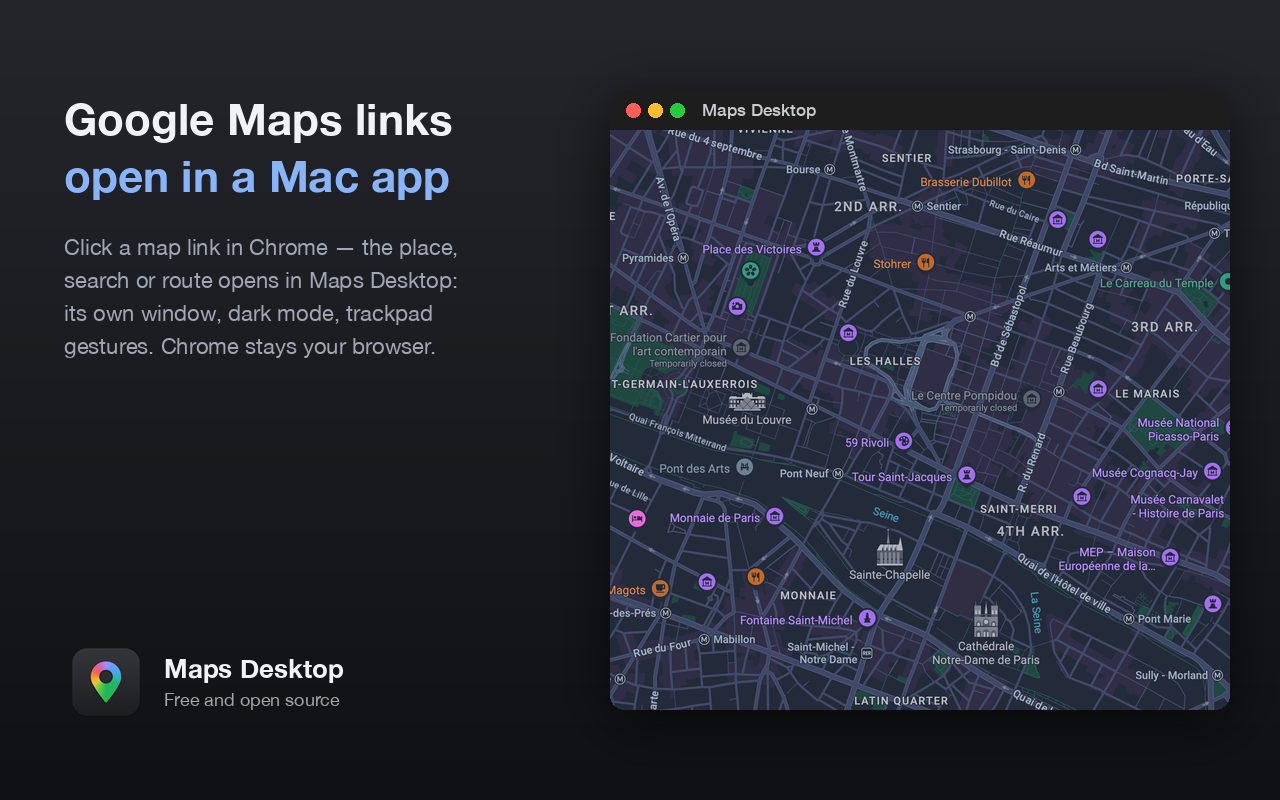
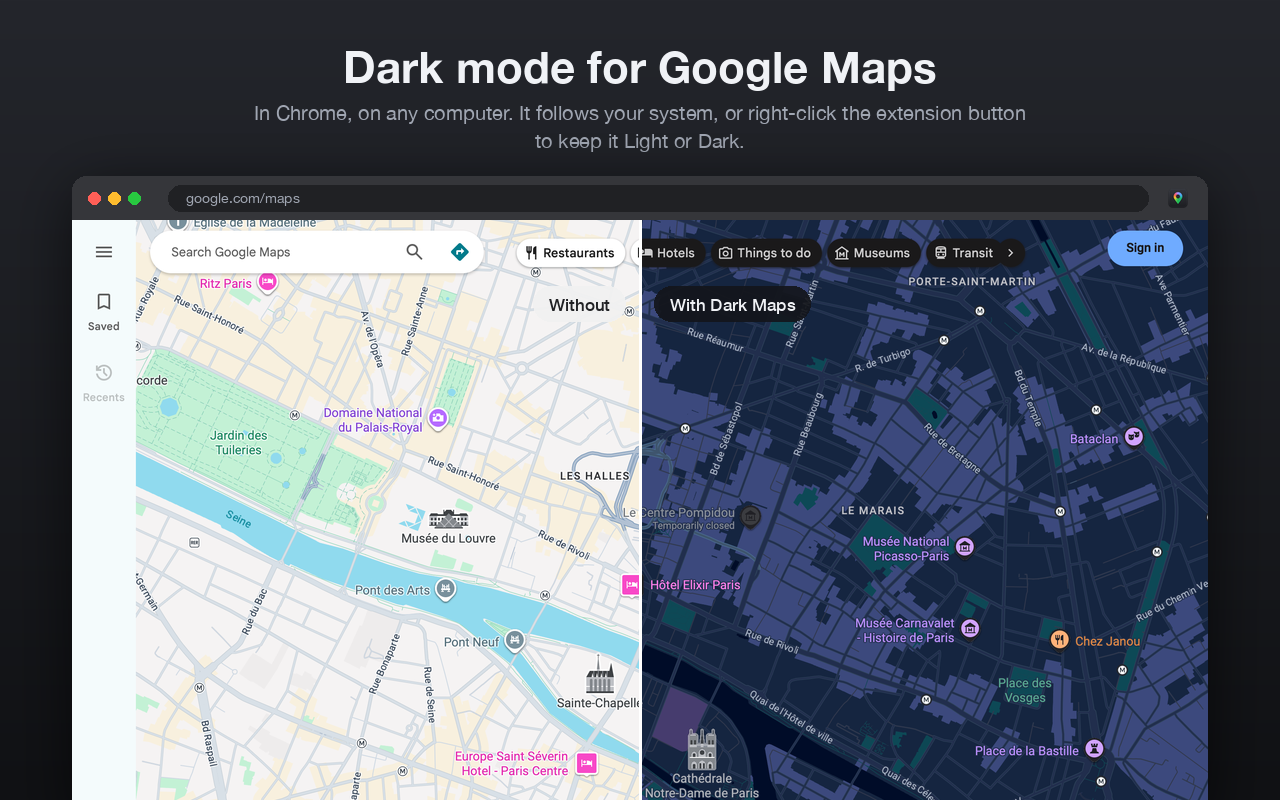
Store images: dark theme, trackpad gestures, links
Three screenshots to match the listing: Google Maps with and without the theme,
the Mac app with its gestures, and a link opening in the app. The generator now
takes a dark and a light snapshot of the same place.

diff --git a/tools/store_graphics.py b/tools/store_graphics.py
@@ -1,11 +1,12 @@
 #!/usr/bin/env python3
-"""Графика для Chrome Web Store: два скриншота 1280×800 и малая промо-плитка 440×280.
+"""Графика для Chrome Web Store: три скриншота 1280×800 и малая промо-плитка 440×280.
 
     ./build.sh            # рисует build/AppIcon.iconset
-    python3 tools/store_graphics.py <снимок карты из приложения.png>
+    python3 tools/store_graphics.py <темный снимок.png> <светлый снимок.png>
 
-Снимок делается tools/shot.sh; из него берется только область карты справа от боковой
-панели, без аватара и личных мест.
+Снимки делает tools/shot.sh из одного и того же места карты, без входа в аккаунт:
+window.__gmDark(true), затем window.__gmDark(false) и событие resize, чтобы карта перерисовалась.
+Логотип и строка внизу карты в кадр не попадают.
 """
 import sys
 from PIL import Image, ImageDraw, ImageFilter, ImageFont
@@ -74,24 +75,118 @@ def text_block(d, xy, lines, gap=10):
     return y
 
 
+def centered(d, text, y, f, fill, w=1280):
+    d.text(((w - f.getlength(text)) / 2, y), text, font=f, fill=fill)
+
+
+def pill(canvas, text, right=None, left=None, y=0, dark=True):
+    f = font(17, 650)
+    w = int(f.getlength(text)) + 32
+    x = right - w if right is not None else left
+    layer = Image.new("RGBA", (w, 36), (20, 22, 28, 235) if dark else (255, 255, 255, 240))
+    ImageDraw.Draw(layer).text((16, 8), text, font=f, fill=TEXT if dark else (32, 33, 36))
+    layer = rounded(layer, 18)
+    canvas.paste(layer, (x, y), layer)
+
+
+def screenshot_theme(dark, light):
+    """Google Карты в Chrome до и после: один и тот же кадр, слева светлый, справа темный."""
+    img = background(1280, 800).convert("RGBA")
+    d = ImageDraw.Draw(img)
+    centered(d, "Dark mode for Google Maps", 40, font(44, 760), TEXT)
+    centered(d, "In Chrome, on any computer. It follows your system, or right-click the extension button",
+             100, font(20, 450), MUTED)
+    centered(d, "to keep it Light or Dark.", 128, font(20, 450), MUTED)
+
+    w, bar, x, y = 1136, 44, 72, 176
+    h = 800 - y - bar + 20    # окно уходит за нижний край кадра
+    s = dark.width / 1280     # снимок с Retina-экрана
+    box = (0, 0, dark.width, int(h * 1280 / w * s))
+    page_dark = dark.crop(box).resize((w, h), Image.LANCZOS)
+    page_light = light.crop(box).resize((w, h), Image.LANCZOS)
+    middle = w // 2
+    page = page_dark.copy()
+    page.paste(page_light.crop((0, 0, middle, h)), (0, 0))
+
+    win = Image.new("RGB", (w, bar + h), (41, 42, 46))
+    wd = ImageDraw.Draw(win)
+    wd.rectangle([0, 0, w, bar], fill=(53, 54, 58))
+    for i, c in enumerate([(255, 95, 87), (254, 188, 46), (40, 200, 64)]):
+        wd.ellipse([16 + i * 20, 16, 28 + i * 20, 28], fill=c)
+    wd.rounded_rectangle([96, 9, w - 60, 35], 13, fill=(32, 33, 36))
+    wd.text((114, 13), "google.com/maps", font=font(14, 450), fill=MUTED)
+    ic = icon(24)
+    win.paste(ic, (w - 42, 10), ic)
+    win.paste(page, (0, bar))
+    wd.line([(middle, bar), (middle, bar + h)], fill=(255, 255, 255), width=3)
+    win = rounded(win, 14).convert("RGBA")
+    pill(win, "Without", right=middle - 14, y=bar + 66, dark=False)
+    pill(win, "With Dark Maps", left=middle + 14, y=bar + 66)
+    shadow_paste(img, win, (x, y))
+    return img.convert("RGB")
+
+
+def finger(d, x, y, r=17):
+    d.ellipse([x - r, y - r, x + r, y + r], fill=(255, 255, 255, 210), outline=(255, 255, 255, 255), width=2)
+
+
+def arrow(d, a, b, color=ACCENT, width=3, head=9):
+    (x1, y1), (x2, y2) = a, b
+    d.line([a, b], fill=color, width=width)
+    dx, dy = x2 - x1, y2 - y1
+    n = (dx * dx + dy * dy) ** 0.5 or 1
+    ux, uy = dx / n, dy / n
+    d.polygon([(x2 + ux * head, y2 + uy * head),
+               (x2 - uy * head * 0.8, y2 + ux * head * 0.8),
+               (x2 + uy * head * 0.8, y2 - ux * head * 0.8)], fill=color)
+
+
+def gesture_row(img, x, y, kind, title, text):
+    """Значок жеста и подпись."""
+    tile = Image.new("RGB", (64, 64), (44, 47, 55))
+    t = rounded(tile, 15).convert("RGBA")
+    td = ImageDraw.Draw(t)
+    if kind == "swipe":
+        finger(td, 24, 40, 7), finger(td, 40, 40, 7)
+        arrow(td, (24, 28), (24, 16), width=2, head=5), arrow(td, (40, 28), (40, 16), width=2, head=5)
+    elif kind == "pinch":
+        finger(td, 24, 40, 7), finger(td, 40, 24, 7)
+        arrow(td, (17, 47), (11, 53), width=2, head=5), arrow(td, (47, 17), (53, 11), width=2, head=5)
+    else:
+        for row in (18, 32, 46):
+            td.rounded_rectangle([14, row - 3, 42, row + 3], 3, fill=(170, 176, 188))
+        arrow(td, (52, 40), (52, 24), width=2, head=5)
+    img.paste(t, (x, y), t)
+    d = ImageDraw.Draw(img)
+    d.text((x + 82, y + 6), title, font=font(23, 700), fill=TEXT)
+    d.text((x + 82, y + 36), text, font=font(18, 450), fill=MUTED)
+
+
 def screenshot_app(map_img):
     img = background(1280, 800).convert("RGBA")
     d = ImageDraw.Draw(img)
-    y = text_block(d, (64, 92), [
-        ("Google Maps links", 44, 760, TEXT),
-        ("open in a Mac app", 44, 760, ACCENT),
+    y = text_block(d, (64, 72), [
+        ("A real Mac app", 44, 760, TEXT),
+        ("with trackpad gestures", 44, 760, ACCENT),
     ], gap=6)
-    text_block(d, (64, y + 28), [
-        ("Click a map link in Chrome — the place,", 22, 450, MUTED),
-        ("search or route opens in Maps Desktop:", 22, 450, MUTED),
-        ("its own window, dark mode, trackpad", 22, 450, MUTED),
-        ("gestures. Chrome stays your browser.", 22, 450, MUTED),
-    ], gap=8)
+    rows = [("swipe", "Two-finger swipe", "Pans the map, like on a phone"),
+            ("pinch", "Pinch", "Zooms in and out"),
+            ("scroll", "Lists and panels", "Scroll normally")]
+    for i, row in enumerate(rows):
+        gesture_row(img, 64, y + 40 + i * 92, *row)
     ic = icon(84)
     img.paste(ic, (64, 640), ic)
     d.text((164, 652), "Maps Desktop", font=font(26, 700), fill=TEXT)
-    d.text((164, 688), "Free and open source", font=font(18, 450), fill=MUTED)
-    shadow_paste(img, app_window(map_img, 620, 620), (610, 90))
+    d.text((164, 688), "Free and open source. macOS 14 or later.", font=font(18, 450), fill=MUTED)
+
+    win = app_window(map_img, 620, 620)
+    touch = Image.new("RGBA", win.size, (0, 0, 0, 0))
+    td = ImageDraw.Draw(touch)
+    cx, cy = 220, 215
+    for fx in (cx - 30, cx + 30):
+        arrow(td, (fx, cy - 24), (fx, cy - 70), width=4, head=11)
+        td.ellipse([fx - 18, cy - 18, fx + 18, cy + 18], fill=(255, 255, 255, 120), outline=(255, 255, 255, 235), width=2)
+    shadow_paste(img, Image.alpha_composite(win, touch), (610, 90))
     return img.convert("RGB")
 
 
@@ -143,10 +238,11 @@ def promo_small():
 
 
 if __name__ == "__main__":
-    shot = Image.open(sys.argv[1]).convert("RGB")
-    s = shot.width / 853      # снимок с Retina-экрана; координаты ниже — в масштабе 1/3
-    map_img = shot.crop((int(318 * s), int(42 * s), int(812 * s), int(520 * s)))
-    screenshot_app(map_img).save(f"{ROOT}/store/screenshot-1.png")
-    screenshot_flow(map_img).save(f"{ROOT}/store/screenshot-2.png")
+    shot, light = (Image.open(path).convert("RGB") for path in sys.argv[1:3])
+    s = shot.width / 1280     # снимок с Retina-экрана; для окна приложения — только карта, без панелей
+    map_img = shot.crop((int(477 * s), int(63 * s), int(1218 * s), int(770 * s)))
+    screenshot_theme(shot, light).save(f"{ROOT}/store/screenshot-1.png")
+    screenshot_app(map_img).save(f"{ROOT}/store/screenshot-2.png")
+    screenshot_flow(map_img).save(f"{ROOT}/store/screenshot-3.png")
     promo_small().save(f"{ROOT}/store/promo-small.png")
-    print("store/screenshot-1.png, store/screenshot-2.png, store/promo-small.png")
+    print("store/screenshot-1.png, store/screenshot-2.png, store/screenshot-3.png, store/promo-small.png")

diff --git a/store/chrome-web-store.md b/store/chrome-web-store.md
@@ -51,7 +51,7 @@ Maps Desktop is an independent project and is not affiliated with, endorsed by o
 
 **Graphics** (in `store/`):
 - Store icon 128×128: `chrome-extension/icons/128.png`
-- Screenshots 1280×800: `store/screenshot-1.png`, `store/screenshot-2.png`
+- Screenshots 1280×800: `store/screenshot-1.png` (dark theme), `store/screenshot-2.png` (gestures), `store/screenshot-3.png` (links)
 - Small promo tile 440×280: `store/promo-small.png`
 
 **Website:** https://github.com/donsamoylov/maps-desktop
